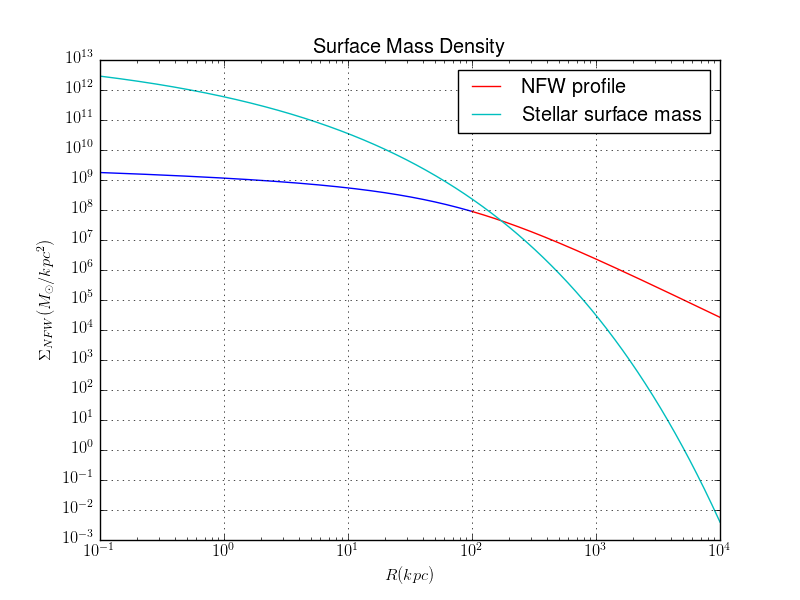
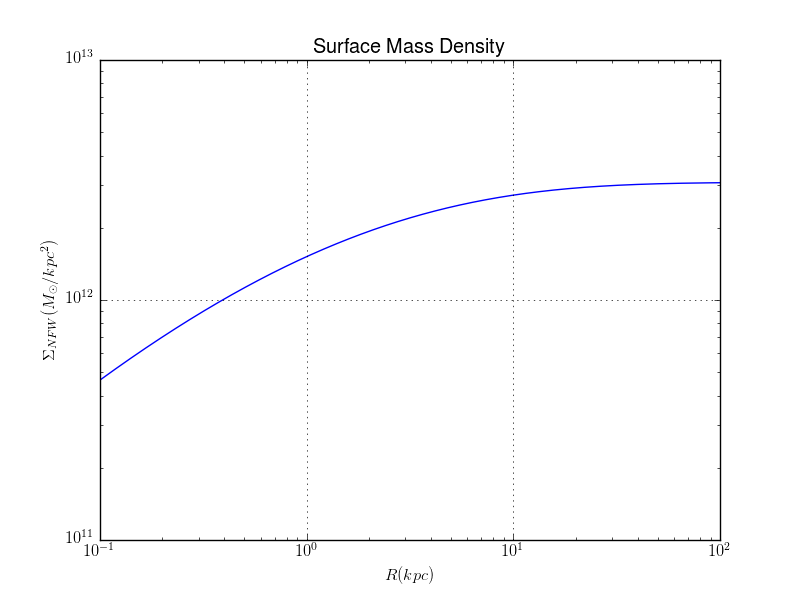
update

diff --git a/plots/projected_mass.py b/plots/projected_mass.py
@@ -1,0 +1,59 @@
+import numpy as np
+from scipy import integrate
+from scipy.integrate import quad
+import matplotlib as mpl
+import matplotlib.patches as mpatches
+import matplotlib.pyplot as plt
+mpl.rcParams['text.usetex'] = True
+
+c        = 4.46           # concentration parameter (Paper Dutton and Maccio) this was checked many times 
+delta_c  = 6716.38        # Dimensionless overdensity using 4.46
+rho_c    = 200            # Critical density in M_sun/kpc^3 (197.8)
+r_s      = 100            # Characteristic radius (kpc) 
+I_e      = 2.6*10**9      # Effective brightness I(Re) 2.6e6
+b        = 7.67           # Lokas and Mamon paper
+R_e      = 20             # Half of the total light in kpc
+
+#MASS ENCLOSED BY LIGHT (DE VAUCOULEURS PROFILE)
+
+def surf_bright(r):
+	return 4*I_e*np.exp(-b*(((r)/(R_e))**(0.25)-1))
+R = np.arange(0.1,10000,0.1)
+def F(r):
+    res = np.zeros_like(r)
+    for i,val in enumerate(r):
+        y,err = integrate.quad(surf_bright,0,val)
+        res[i]=y
+    return res
+plt.plot(R,F(R))
+
+#NOW FOR THE MASS OF THE NFW PROFILE
+
+def NFW(x):
+	if (x<1.0):
+		surf_mass = 2*np.pi*x*((2*r_s*delta_c*rho_c)/((x*x)-1))*(1-(2)/(np.sqrt(1-(x*x)))*np.arctanh(np.sqrt((1-x)/(1+x))))
+	elif (x==1.0):
+		surf_mass = (2*r_s*delta_c*rho_c)/3
+	else:
+		surf_mass = 2*np.pi*x*((2*r_s*delta_c*rho_c)/((x*x)-1))*(1-(2)/(np.sqrt((x*x)-1))*np.arctan(np.sqrt((x-1)/(1+x))))
+	return surf_mass
+	
+X = np.arange(0.001,100,0.1)
+
+def Mass(x):
+    res2 = np.zeros_like(x)
+    for j,val in enumerate(x):
+        y,err = integrate.quad(NFW,0,val)
+        res2[j]=y
+    return res2
+plt.plot(X*r_s,Mass(X))
+
+plt.yscale('log')
+plt.xscale('log')
+plt.xlabel('$R(kpc)$')
+plt.ylabel('$M_{\odot }/ kpc^{2})$')
+plt.title('Enclosed Mass')
+plt.grid(True)
+plt.legend()
+plt.savefig("Enclosed Mass.png")
+plt.show()

diff --git a/plots/Surface_mass_density.py b/plots/Surface_mass_density.py
@@ -3,6 +3,7 @@ import numpy as np
 import matplotlib as mpl
 import matplotlib.patches as mpatches
 from scipy.integrate import quad
+from scipy import integrate
 mpl.rcParams['text.usetex'] = True
 
 # This plot is made for the cluster ABELL 1068
@@ -33,16 +34,18 @@ plt.plot(R,4*I_e*np.exp(-b*(((R)/(R_e))**(0.25)-1)),label='Stellar Surface Mass'
 
 # For the total luminosity:
 
-def surf_bright(x, I_e, b, R_e):
-	return 4*I_e*np.exp(-b*(((x)/(R_e))**(0.25)-1))
+def surf_bright(r, I_e, b, R_e):
+	return 4*I_e*np.exp(-b*(((r)/(R_e))**(0.25)-1))
 I1, I1err = quad(surf_bright, 0.1, 10000, args=(I_e,b,R_e))
+#r = np.arange(0.1,10,0.001)
+
 print 'Luminosity: %e' %(I1)
 
 # Projected masses found by integrating the projected surface mass density
 
 def NFW1(x1, delta_c, r_s, rho_c):
 	return 2*np.pi*x1*((2*r_s*delta_c*rho_c)/((x1*x1)-1))*(1-(2)/(np.sqrt(1-(x1*x1)))*np.arctanh(np.sqrt((1-x1)/(1+x1))))
-I2, I2err = quad(NFW1, 0.01, 1, args=(delta_c, r_s, rho_c))
+I2, I2err = quad(NFW1, 0.001, 1, args=(delta_c, r_s, rho_c))
 
 def NFW2(x3, delta_c, r_s, rho_c):
 	return 2*np.pi*x3*((2*r_s*delta_c*rho_c)/((x3*x3)-1))*(1-(2)/(np.sqrt((x3*x3)-1))*np.arctan(np.sqrt((x3-1)/(1+x3))))

diff --git a/Chapters/Chapter2.tex b/Chapters/Chapter2.tex
@@ -33,6 +33,12 @@ NFW profile for dark matter that is basically the dynamical mass of the cluster
 
 \section{IMF in BCGs}
 
+For stars, measurements of the luminosity function can be
+used to derive the Initial Mass Function (IMF).
+For galaxies, this is more difficult because Mass to light ratio (M/L) of the stellar population
+depends upon the star formation history of
+the galaxy.
+
 bulges have heavier IMFs than disks
 
 Several recent studies have presented evidence for "heavyweight" IMFs in giant ellipticals, with a mass-to-light-ratio twice that of a Milky Way like IMF.
